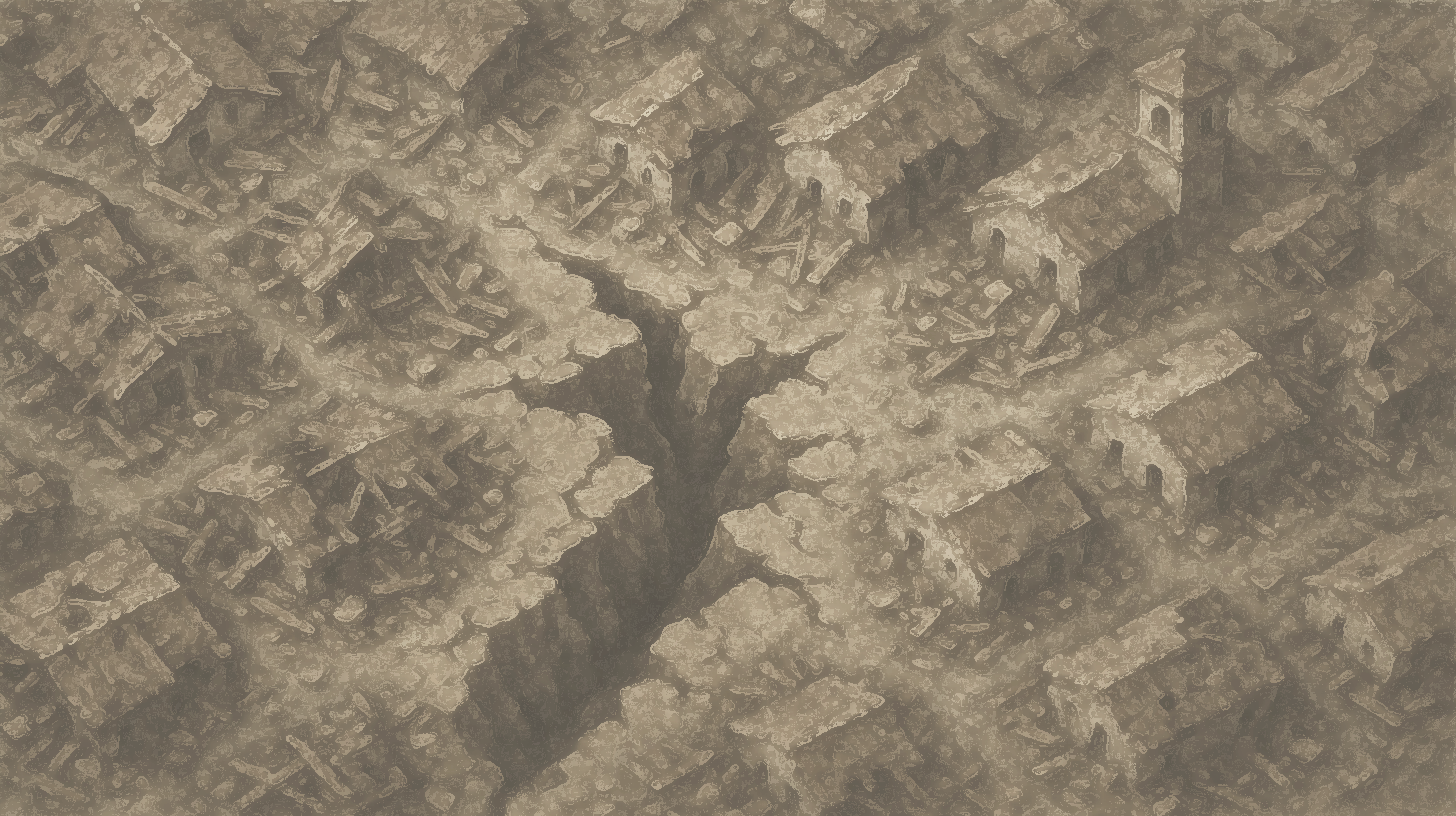
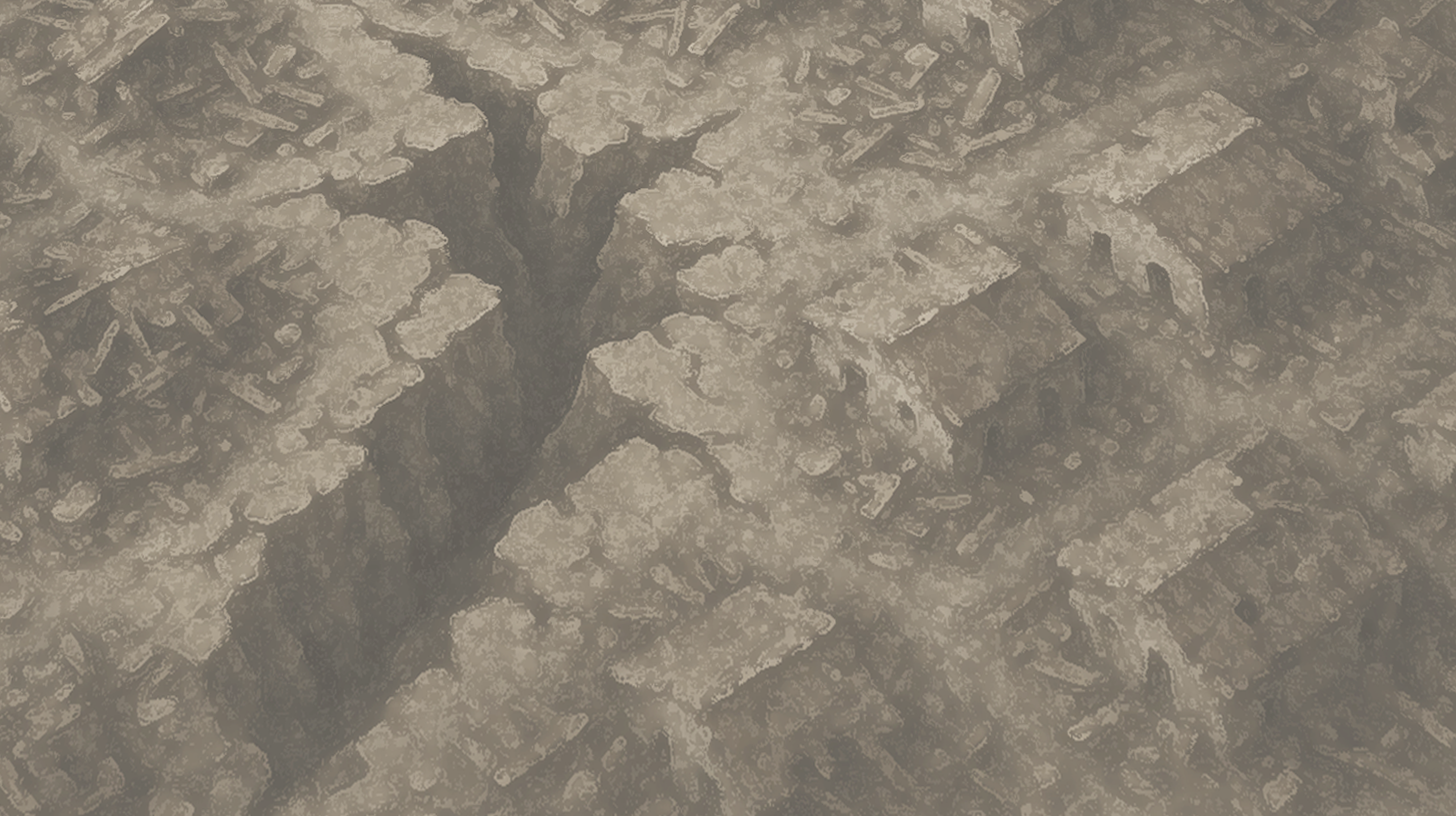
graphics

diff --git a/docs/src/model/PlayBoard.js b/docs/src/model/PlayBoard.js
@@ -865,7 +865,7 @@ class PlayBoardLogic {
                     PlayBoardLogic.InventoryLogic.itemDecrement(playBoard.gameState.inventory);
 
                     // set countdown for seed
-                    PlayBoardLogic.setSeedCountdown(index[0], index[1], playBoard);
+                    PlayBoardLogic.setSeedCountdown(p5, index[0], index[1], playBoard);
 
                     // if kiku is planted, increase upper limit of action points immediately
                     if (PlayBoardLogic.BoardLogic.getCell(index[0], index[1], playBoard.boardObjects)?.plant?.plantType === PlayBoardLogic.plantTypes.KIKU) {
@@ -929,19 +929,21 @@ class PlayBoardLogic {
         PlayBoardLogic.ScreenLogic.handleScroll(event, playBoard);
     }
 
-    // abstract, used in stage 5
     /**
      *
+     * @param p5
      * @param x
      * @param y
      * @param {PlayBoardLike} playBoard
      */
-    static setSeedCountdown(x, y, playBoard) {
+    static setSeedCountdown(p5, x, y, playBoard) {
+        let cell = PlayBoardLogic.BoardLogic.getCell(x, y, playBoard.boardObjects);
+        if (!cell.seed) return;
+        if (cell.terrain.terrainType !== PlayBoardLogic.terrainTypes.DESERT) {
+            cell.seed.img = p5.images.get("Seed1");
+        }
         if (playBoard.stageGroup >= PlayBoardLogic.stageGroup.TSUNAMI) {
-            let cell = PlayBoardLogic.BoardLogic.getCell(x, y, playBoard.boardObjects);
-            if (cell.seed && playBoard.fertilized[x][y]) {
-                cell.seed.countdown = 1;
-            }
+            if (playBoard.fertilized[x][y]) cell.seed.countdown = 1;
         }
     }
 

diff --git a/docs/src/Preloader.js b/docs/src/Preloader.js
@@ -28,6 +28,7 @@ function loadImages(p5) {
     images.set("Sea", p5.loadImage(basePath + "Sea.png"));
 
     images.set("Seed", p5.loadImage(basePath + "Seed.png"));
+    images.set("Seed1", p5.loadImage(basePath + "Seed1.png"));
     images.set("Pine", p5.loadImage(basePath + "Pine.png"));
     images.set("Corn", p5.loadImage(basePath + "Corn.png"));
     images.set("Orchid", p5.loadImage(basePath + "Orchid.png"));

diff --git a/README.md b/README.md
@@ -399,7 +399,7 @@ We test our app with two approaches:
 
 The first approach is easy but, more importantly, necessary to conduct, as there is no simple way to test the rendering outcome of the p5.js library. Focusing primarily on non-functional requirements, we test graphics and apparent logical bugs by playing through the game, following the game process and treating it as a complete black box.
 
-The second approach is more robust and reliable, but much harder to execute completely. The test codebase can be found [here](https://github.com/UoB-COMSM0166/2025-group-12/tree/main/docs/lib/__test__). We skipped the white box testing for functions since there are too many of them (refer to our class diagrams) that we can’t go through all the statements and branches within the term schedule. We ensure the overall correctness of the system by using black box testing and equivalent partitioning. Each individual menu is treated as a functional unit, and we use mock play boards, game entities, mouse inputs and keyboard inputs to the system to test reactions. A rule of thumb raised by our team that “the test code should be larger than the production code” is also violated due to our large codebase (~15000 lines) and term dates. However, we still ensure that the tests cover as many parameter categories as possible – as the game scales, the complexity grows exponentially, and we can only ensure the system is close to a bug-free status by iterating test suites.
+The second approach is more robust and reliable, but much harder to execute completely. The test codebase can be found [here](https://github.com/UoB-COMSM0166/2025-group-12/tree/main/docs/lib/__test__). We skipped the white box testing for functions since there are too many of them (refer to our class diagrams) that we can’t go through all the statements and branches within the term schedule. We ensure the overall correctness of the system by using black box testing and equivalent partitioning. Each individual menu is treated as a functional unit, and we use mock play boards, game entities, mouse inputs and keyboard inputs to the system to test reactions. A rule of thumb raised by our team that “the test code should be larger than the production code” is also violated due to our large codebase (~12000 lines) and term dates. However, we still ensure that the tests cover as many parameter categories as possible – as the game scales, the complexity grows exponentially, and we can only ensure the system is close to a bug-free status by iterating test suites.
 
 <p align="center">
   <img src="documents/sukusho_tests.png" width="75%" />
